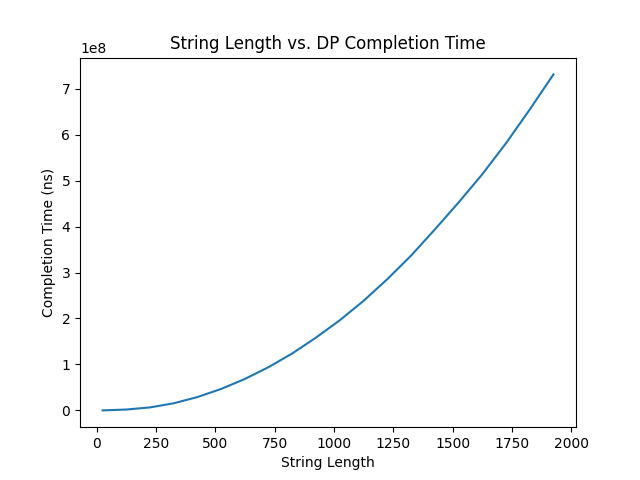
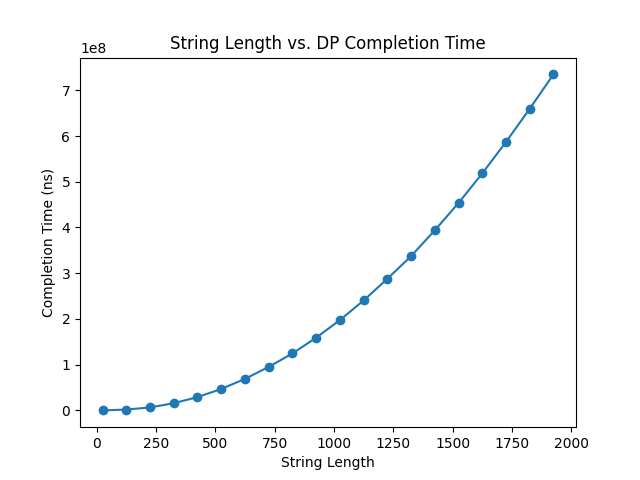
finish empirical comparison written component and add usage instructions

diff --git a/src/graph.py b/src/graph.py
@@ -90,7 +90,7 @@ if __name__ == "__main__":
 
 
     # graph the runtimes
-    plt.plot(string_lengths, runtimes)
+    plt.plot(string_lengths, runtimes, marker='o')
     plt.xlabel("String Length")
     plt.ylabel("Completion Time (ns)")
     plt.title("String Length vs. DP Completion Time")

diff --git a/README.md b/README.md
@@ -6,8 +6,68 @@ Alex Milanes (Alex42006) - 51506411
 
 ## Usage
 
+Running this program requires Python 3.14.
+
+To run the program, use the command
+```sh
+python src/run.py
+```  
+
+Change the input file by updating the `file_name` variable on line `20`. Do not include the path to the file, nor the `.in` extension.  
+
+
+To run the analyzer, use the command
+```sh
+python src/graph.py
+```
+
+This requires `matplotlib` and `tqdm`, which can be installed to your python environment with
+```
+pip install -r requirements.txt
+```
+
 
 ### Input/Output
 
+Define an input file in the `inputs/` directory. Input files must be in the format `[name].in`.  
+
+Example input file `inputs/file1.in`:
+```
+3
+a 2
+b 4
+c 5
+aacb
+caab
+```
+
+The first line contains the number of letters to be used in the alphabet, K.  
+The next K lines contain each letter with its corresponding value, separated by a space.  
+The last two lines contain the strings A and B, which are the inputs to the algorithm and must contain letters defined in the previous K lines.  
+
+Output files contain the value of the highest value longest common subsequence on the first line, and the subsequence on the second line. For example, `outputs/file2.out`:
+
+```
+9
+cb
+```
+
 
 ## Written Component
+
+### Question 1: Empirical Comparison
+
+In `src/graph.py`, 20 string lengths ranging from 25 to 1925 characters, evenly spaced by 100 characters, with a constant alphabet size of 26 were analyzed for completion time with 10 samples each. The resulting plot is shown below
+
+![Graph](data/graph.png)
+
+This figure suggests a quadratic trend, and fitting it to a quadratic polynomial with regression yields the following curve, with an R<sup>2</sup> coefficient of approximately 1. This shows that the data is fit by a quadratic curve, which suggests that the average-case time complexity of the algorithm scales by n<sup>2</sup>.
+
+![Desmos Graph](data/desmos-graph.png)
+
+
+### Question 2: Recurrence Equation
+
+
+### Question 3: Big-Oh
+
